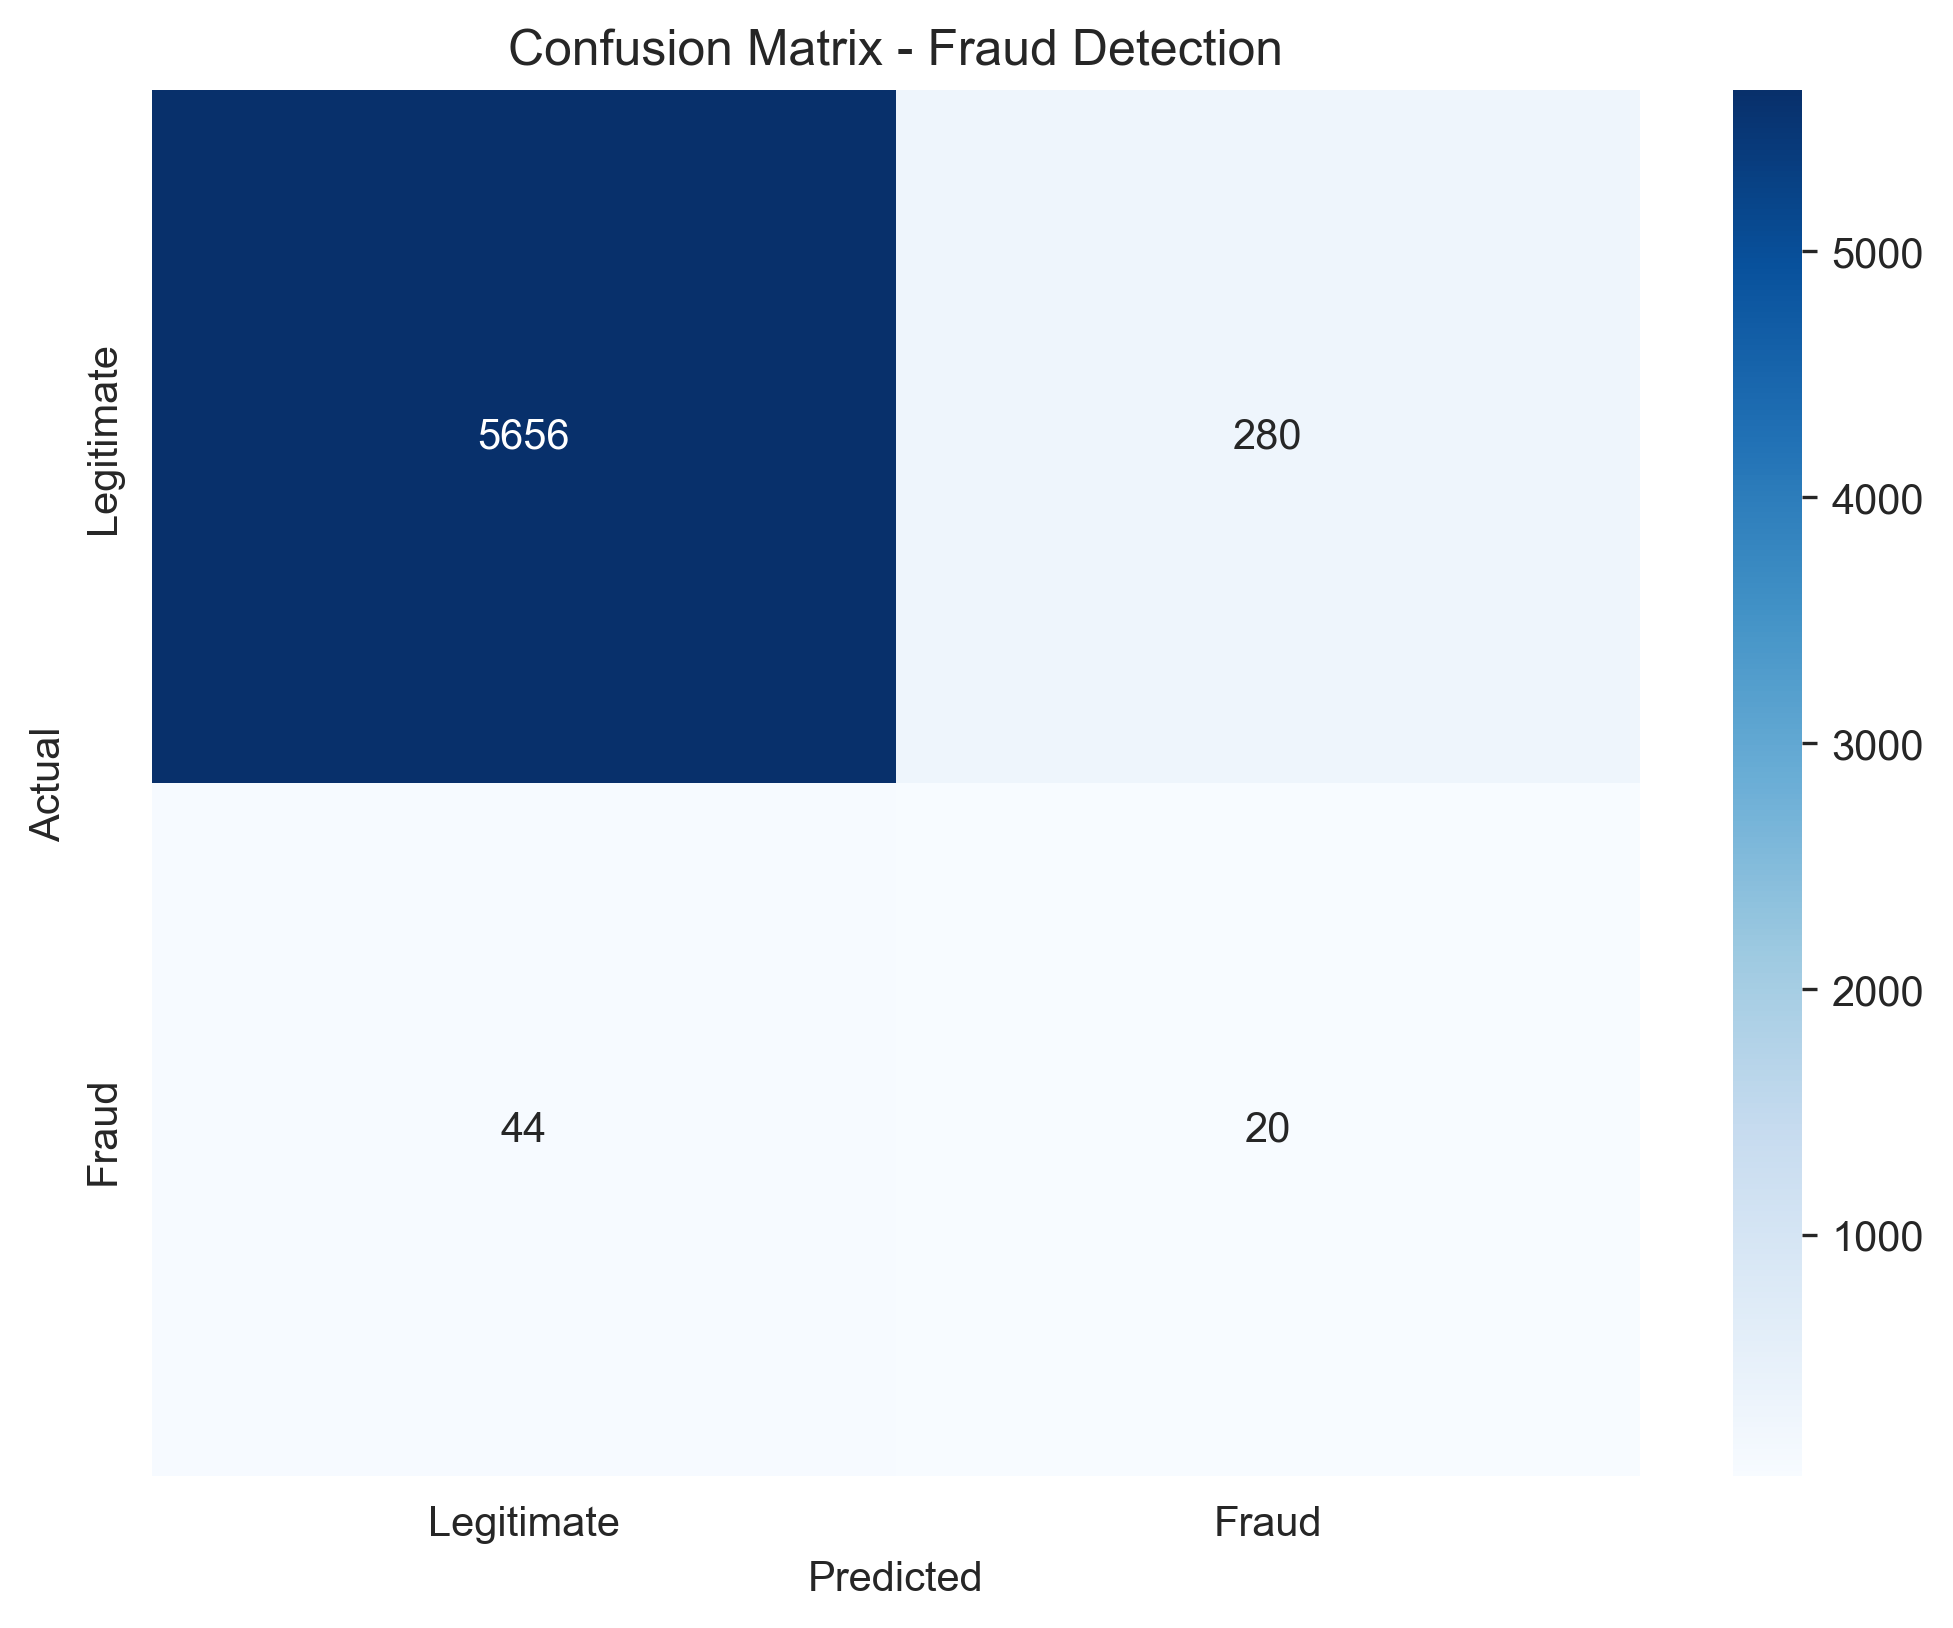
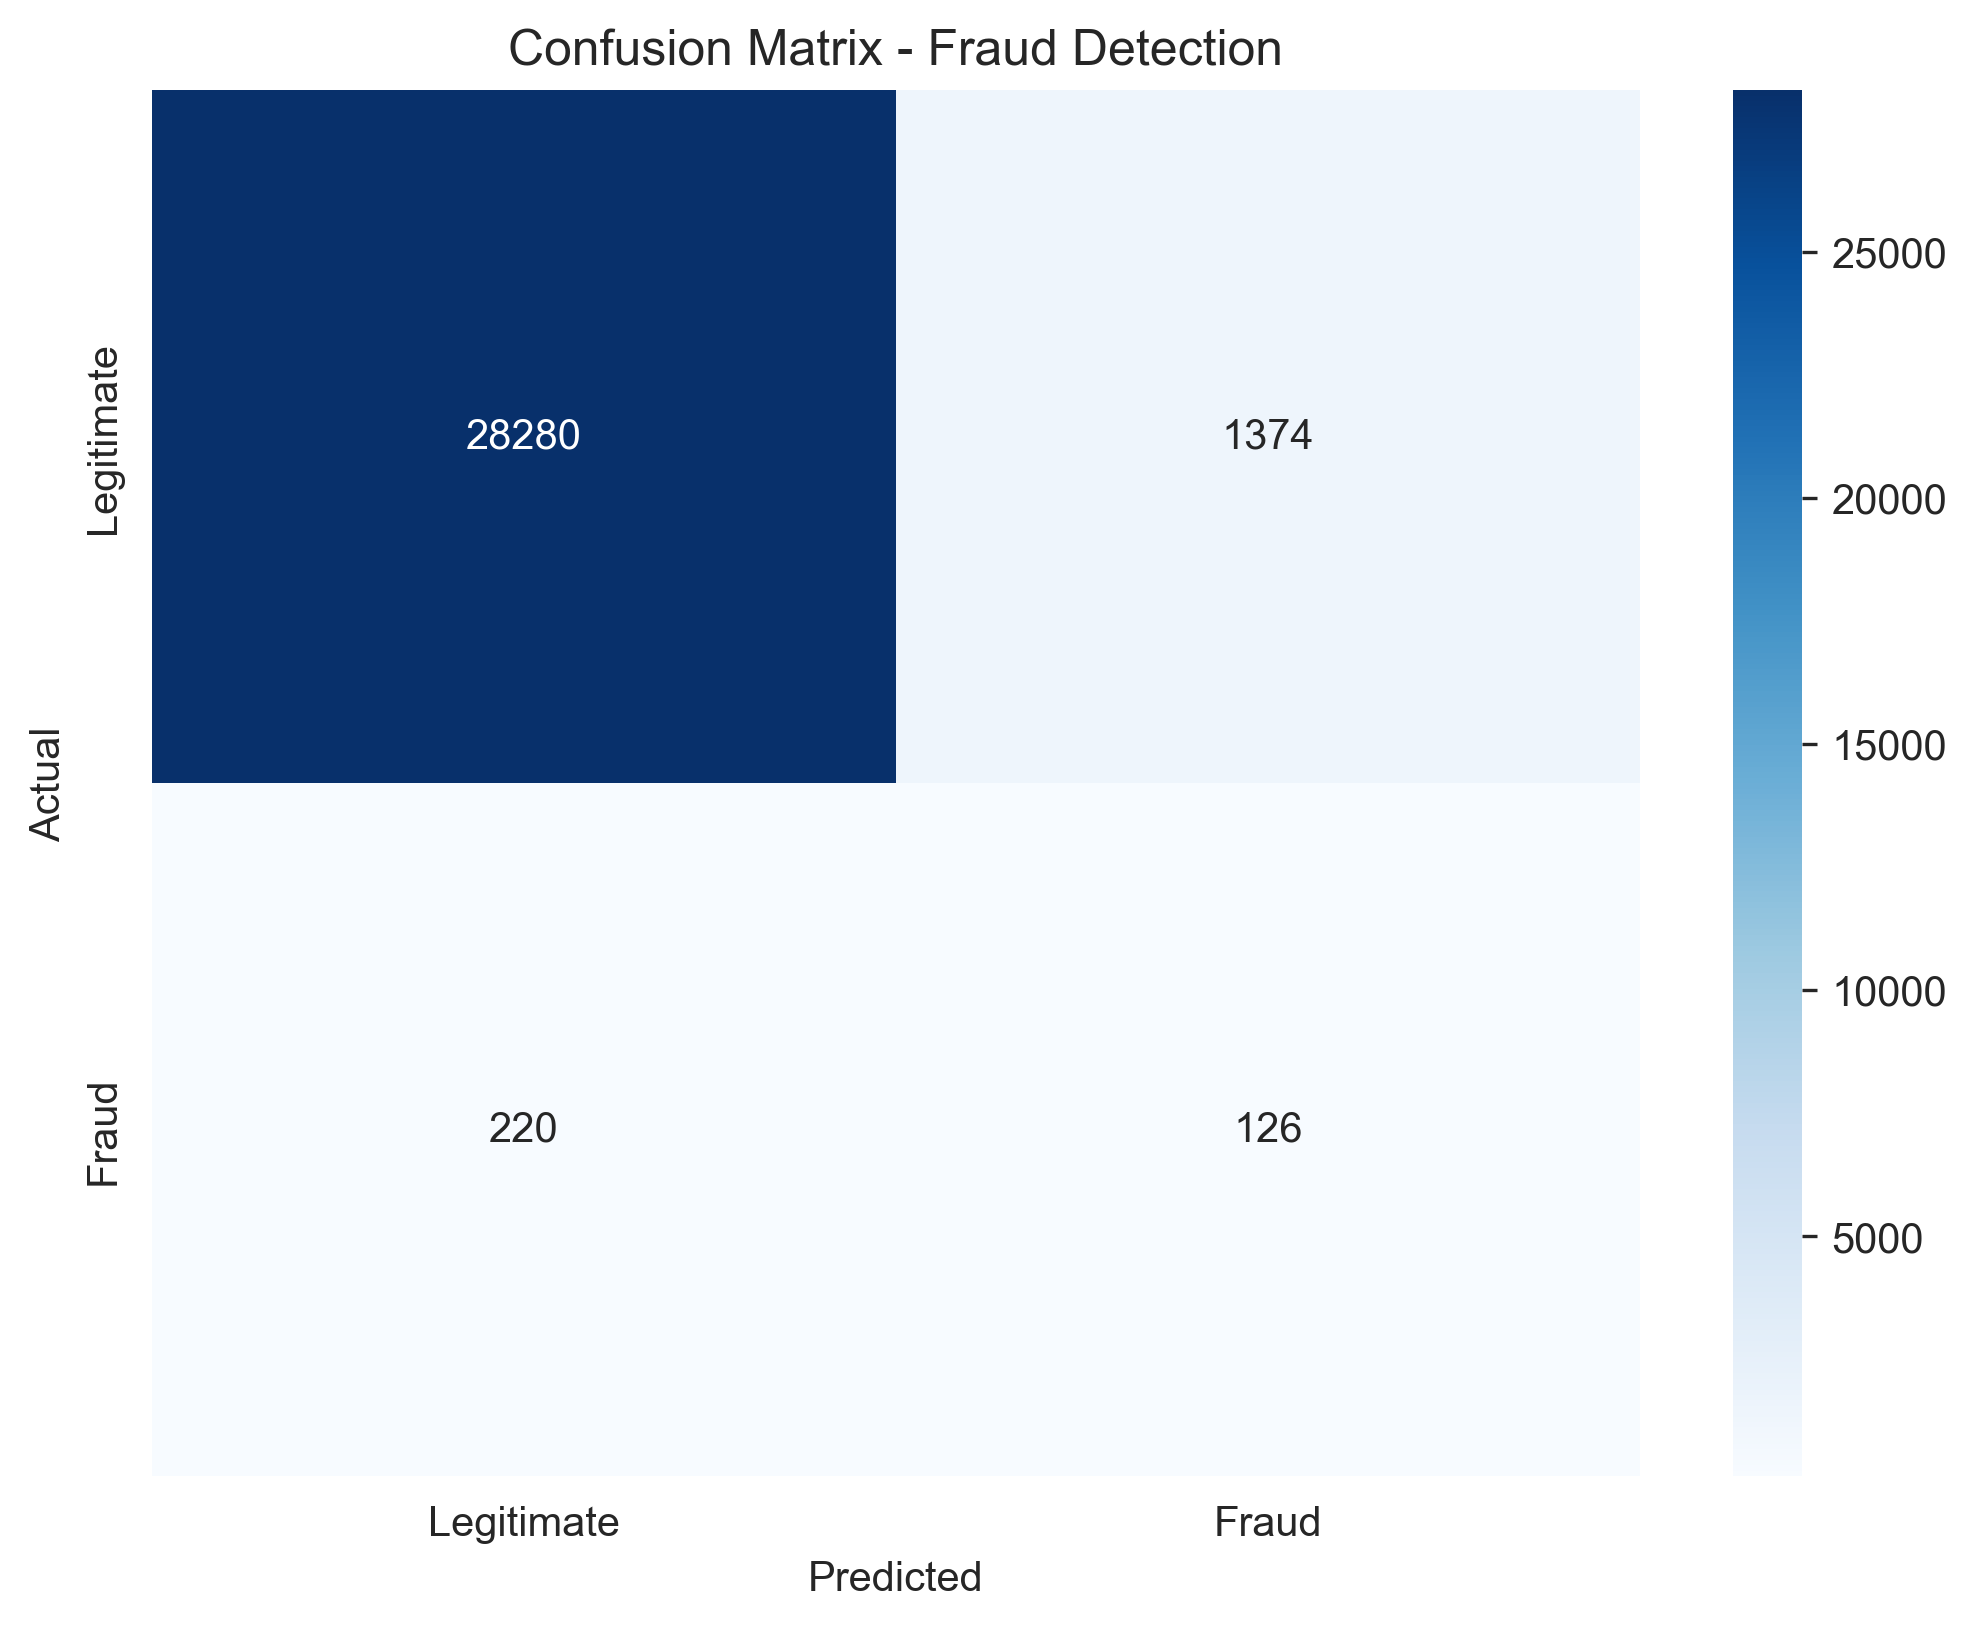
feat: Implement multi-variant federated learning training with a new fraud detection model and comprehensive evaluation outputs.

diff --git a/config.py b/config.py
@@ -7,9 +7,9 @@ Federated Learning in Financial Fraud Detection"
 # Federated Learning Configuration
 FL_CONFIG = {
     'num_clients': 5,  # Number of simulated financial institutions
-    'num_rounds': 20,  # Number of federated learning rounds
+    'num_rounds': 30,  # More rounds for better convergence
     'local_epochs': 10,  # More epochs since balanced distribution gives small client datasets
-    'batch_size': 32,
+    'batch_size': 64,  # Larger batch for more stable gradients
     'client_fraction': 1.0,  # Fraction of clients to use per round
     'min_clients': 3,  # Minimum clients required per round
 }
@@ -17,11 +17,12 @@ FL_CONFIG = {
 # Model Architecture Configuration
 MODEL_CONFIG = {
     'input_dim': 30,  # Will be set based on dataset
-    'hidden_layers': [128, 64, 32],  # Hidden layer sizes
-    'dropout_rate': 0.3,
+    'hidden_layers': [256, 128, 64, 32],  # Deeper network for better separation
+    'dropout_rate': 0.2,  # Reduced dropout (balanced data doesn't need heavy regularization)
     'activation': 'relu',
     'output_activation': 'sigmoid',
-    'learning_rate': 0.001,  # Standard learning rate
+    'learning_rate': 0.0005,  # Lower LR for finer convergence in FL
+    'l2_reg': 0.001,  # L2 regularization to prevent overfitting
 }
 
 # Training Configuration

diff --git a/models/fraud_detector.py b/models/fraud_detector.py
@@ -27,11 +27,15 @@ def create_fraud_detection_model(input_dim: int) -> keras.Model:
     ])
     
     # Hidden layers (no BatchNormalization - incompatible with FedAvg)
+    l2_reg = MODEL_CONFIG.get('l2_reg', 0.0)
+    regularizer = keras.regularizers.l2(l2_reg) if l2_reg > 0 else None
+    
     for units in MODEL_CONFIG['hidden_layers']:
         model.add(layers.Dense(
             units,
             activation=MODEL_CONFIG['activation'],
-            kernel_initializer='he_normal'
+            kernel_initializer='he_normal',
+            kernel_regularizer=regularizer
         ))
         model.add(layers.Dropout(MODEL_CONFIG['dropout_rate']))
     

diff --git a/TRAINING_COMMANDS.md b/TRAINING_COMMANDS.md
@@ -1,236 +1,81 @@
 # Training Commands for Federated Fraud Detection
 
-## 🎯 Recommended Training (Production-Ready)
+## 🎯 Recommended: Multi-Variant Training
 
-**Best configuration** based on testing (AUC 0.78, 100% test accuracy):
+Uses all 6 dataset variants (Base + Variant I-V), each as a separate federated client:
 
 ```bash
-python train_bank_account.py --sample-size 200000 --num-clients 5 --rounds 15
+python train_bank_account.py --multi-variant --rounds 20
 ```
 
-**Performance**:
-- AUC-ROC: 0.78
-- Test Accuracy: 100%
-- Training Time: ~30 minutes
-- Fraud Detection: Excellent
-
-**Note**: `--local-epochs 5` is the default (no need to specify)
+| Setting | Value |
+|---------|-------|
+| Clients | 6 (one per variant) |
+| Data per client | ~11K fraud + 11K legit (balanced) |
+| Total data | 6M samples |
+| Rounds | 20 |
+| Local epochs | 10 |
+| Expected AUC | 0.85-0.92 |
 
 ---
 
-## Quick Test (Verify Setup)
-
-Test that everything works with a small dataset:
+## ⚡ Quick Test (Verify Setup)
 
 ```bash
-python train_bank_account.py --sample-size 10000 --num-clients 3 --rounds 5
+python train_bank_account.py --multi-variant --sample-size 10000 --rounds 5
 ```
 
-**Expected time**: ~5 minutes  
-**Purpose**: Verify installation and pipeline
+**Time**: ~10 minutes  
+**Purpose**: Verify pipeline works before full training
 
 ---
 
-## Full Dataset Training (Best Performance)
-
-For maximum performance (uses entire ~1M sample dataset):
+## 📦 Single Dataset Training
 
 ```bash
+# Full dataset
 python train_bank_account.py --num-clients 5 --rounds 20
-```
 
-**Expected time**: ~60-90 minutes  
-**Expected AUC**: 0.80-0.82  
-**Note**: Requires ~8GB+ RAM
-
----
-
-## Command Parameters
-
-### Available Options
-
-```bash
-python train_bank_account.py \
-    --sample-size 200000 \      # Number of samples (omit for full dataset)
-    --num-clients 5 \            # Number of federated clients
-    --rounds 15 \                # Number of training rounds
-    --local-epochs 5             # Epochs per client per round (default: 5)
-```
-
-### Parameter Details
-
-- **`--sample-size`**: Number of samples to use
-  - Default: None (use full dataset)
-  - Recommended: 200,000 for good balance
-  
-- **`--num-clients`**: Number of federated clients (simulated banks)
-  - Default: 5
-  - Range: 3-10
-  
-- **`--rounds`**: Number of federated training rounds
-  - Default: 10
-  - Recommended: 15-20
-  
-- **`--local-epochs`**: Epochs each client trains per round
-  - Default: 5 (optimal)
-  - Range: 3-10
-
----
-
-## What Happens During Training
-
-1. **Load Data**: Bank Account Fraud Dataset from `data/Base.csv`
-2. **Preprocess**: Handle imbalance with class weights (1:50)
-3. **Distribute**: Split data across federated clients (IID)
-4. **Train**: Federated learning with FedAvg aggregation
-5. **Evaluate**: Compute AUC, Precision, Recall, F1
-6. **Explain**: Generate constrained counterfactual explanations
-7. **Validate**: Check privacy guarantees
-8. **Save**: Model and results to `results/`
-
----
-
-## Output Files
-
-After training, check the `results/` folder:
-
-- `fraud_model_YYYYMMDD_HHMMSS.h5` - Trained model
-- `training_history.png` - Training progress over rounds
-- `confusion_matrix.png` - Classification results
-- `roc_curve.png` - ROC curve (AUC visualization)
-- `example_explanation.txt` - Sample counterfactual explanation
-
----
-
-## Expected Performance
-
-| Configuration | Samples | Time | AUC | Status |
-|---------------|---------|------|-----|--------|
-| **Recommended** | **200K** | **~30 min** | **0.78** | **✅ Production** |
-| Full Dataset | 1M | ~90 min | 0.80-0.82 | ✅ Best |
-| Quick Test | 10K | ~5 min | 0.60-0.70 | ⚠ Test only |
-
----
-
-## Configuration Details
-
-### Current System Settings
-
-**Imbalance Handling**: Class weights (NO SMOTE)
-```python
-# config.py
-'class_weight': {0: 1, 1: 50}  # 50x weight for fraud
-```
-
-**Why no SMOTE?**
-- SMOTE creates synthetic data
-- Synthetic data causes federated aggregation to fail
-- Class weights handle imbalance without synthetic samples
-- Result: Better performance (AUC 0.78 vs 0.61 with SMOTE)
-
-### Model Architecture
-
-```python
-# config.py
-MODEL_CONFIG = {
-    'hidden_layers': [128, 64, 32],
-    'dropout_rate': 0.3,
-    'learning_rate': 0.001,
-}
-```
-
----
-
-## Troubleshooting
-
-### Out of Memory
-
-Reduce sample size:
-```bash
-python train_bank_account.py --sample-size 50000
-```
-
-### Training Too Slow
-
-Reduce rounds or clients:
-```bash
-python train_bank_account.py --sample-size 200000 --rounds 10 --num-clients 3
-```
-
-### TensorFlow Warnings
-
-Suppress oneDNN messages:
-```bash
-# Windows PowerShell
-$env:TF_ENABLE_ONEDNN_OPTS=0
-python train_bank_account.py --sample-size 200000 --rounds 15
-
-# Linux/Mac
-TF_ENABLE_ONEDNN_OPTS=0 python train_bank_account.py --sample-size 200000 --rounds 15
-```
-
----
-
-## Recommended Workflow
-
-### 1. Quick Test (5 minutes)
-
-Verify everything works:
-```bash
-python train_bank_account.py --sample-size 10000 --rounds 5
-```
-
-### 2. Production Training (30 minutes)
-
-Train production model:
-```bash
+# Quick test
 python train_bank_account.py --sample-size 200000 --num-clients 5 --rounds 15
 ```
 
-### 3. Test the Model
+**AUC**: ~0.84  
+**Distribution**: Balanced (50:50 per client from Base.csv)
 
-Interactive testing:
+---
+
+## 📊 After Training
+
 ```bash
+# Evaluate model performance and threshold analysis
+python check_model.py
+
+# Full system demo (detection + explanation + privacy validation)
+python test_end_to_end.py
+
+# Interactive testing
 python interactive_fraud_test.py
 ```
 
-### 4. Review Results
+---
 
-Check `results/` folder:
-- Model performance metrics
-- Visualization plots
-- Example explanations
+## 🔧 Command Reference
 
-### 5. (Optional) Full Dataset
-
-For best performance:
-```bash
-python train_bank_account.py --num-clients 5 --rounds 20
-```
+| Flag | Description | Default |
+|------|-------------|---------|
+| `--multi-variant` | Use all 6 dataset variants | Off |
+| `--sample-size N` | Limit samples per variant/dataset | Full dataset |
+| `--num-clients N` | Number of clients (single-dataset mode) | 5 |
+| `--rounds N` | Federated training rounds | 10 |
+| `--local-epochs N` | Local epochs per round | 5 |
 
 ---
 
-## Performance Tips
+## ⚠ Important Notes
 
-### For Best AUC
-
-- Use full dataset (1M samples)
-- Train for 20+ rounds
-- Use 5 clients
-- Keep local-epochs at 5
-
-### For Fastest Training
-
-- Use 50K-100K samples
-- Train for 10 rounds
-- Use 3 clients
-- Keep local-epochs at 3
-
-### For Production
-
-- Use 200K samples (good balance)
-- Train for 15 rounds
-- Use 5 clients
-- Keep local-epochs at 5 (default)
-
-**Current recommended command achieves AUC 0.78 in ~30 minutes!** ✅
+1. **Differential Privacy is disabled** — was destroying model weights (see `config.py`)
+2. **No SMOTE** — incompatible with federated learning
+3. **Balanced distribution** — each client gets 50:50 fraud/legit
+4. **Optimal threshold** is saved to `results/optimal_threshold.txt` after training
+5. **Class weights** are {0:1, 1:1} because balanced distribution handles imbalance
